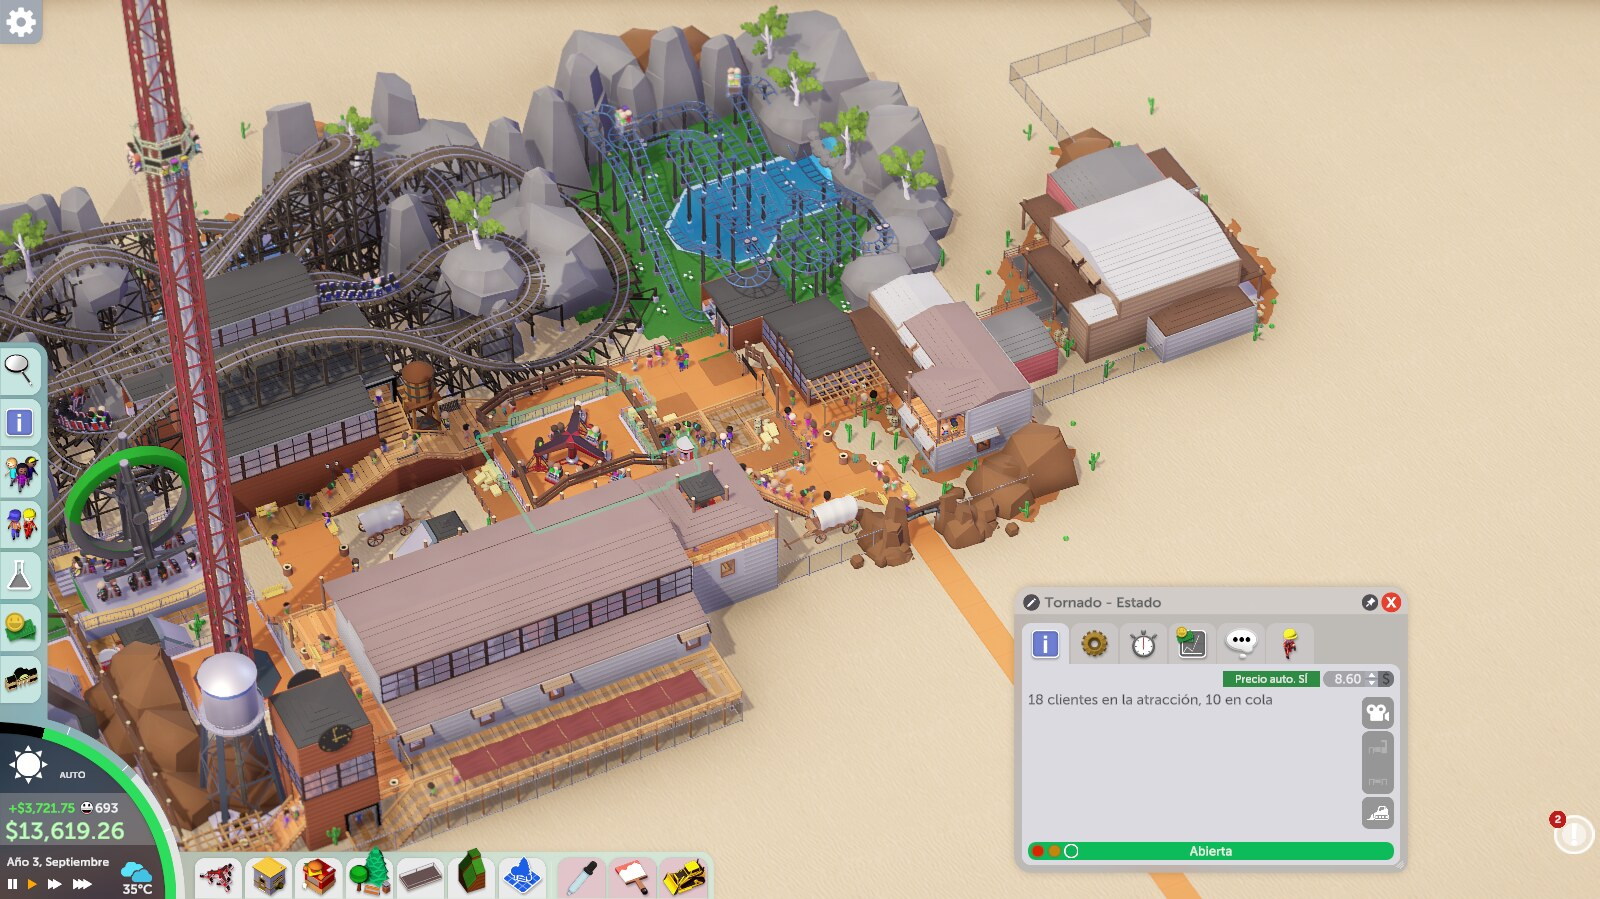
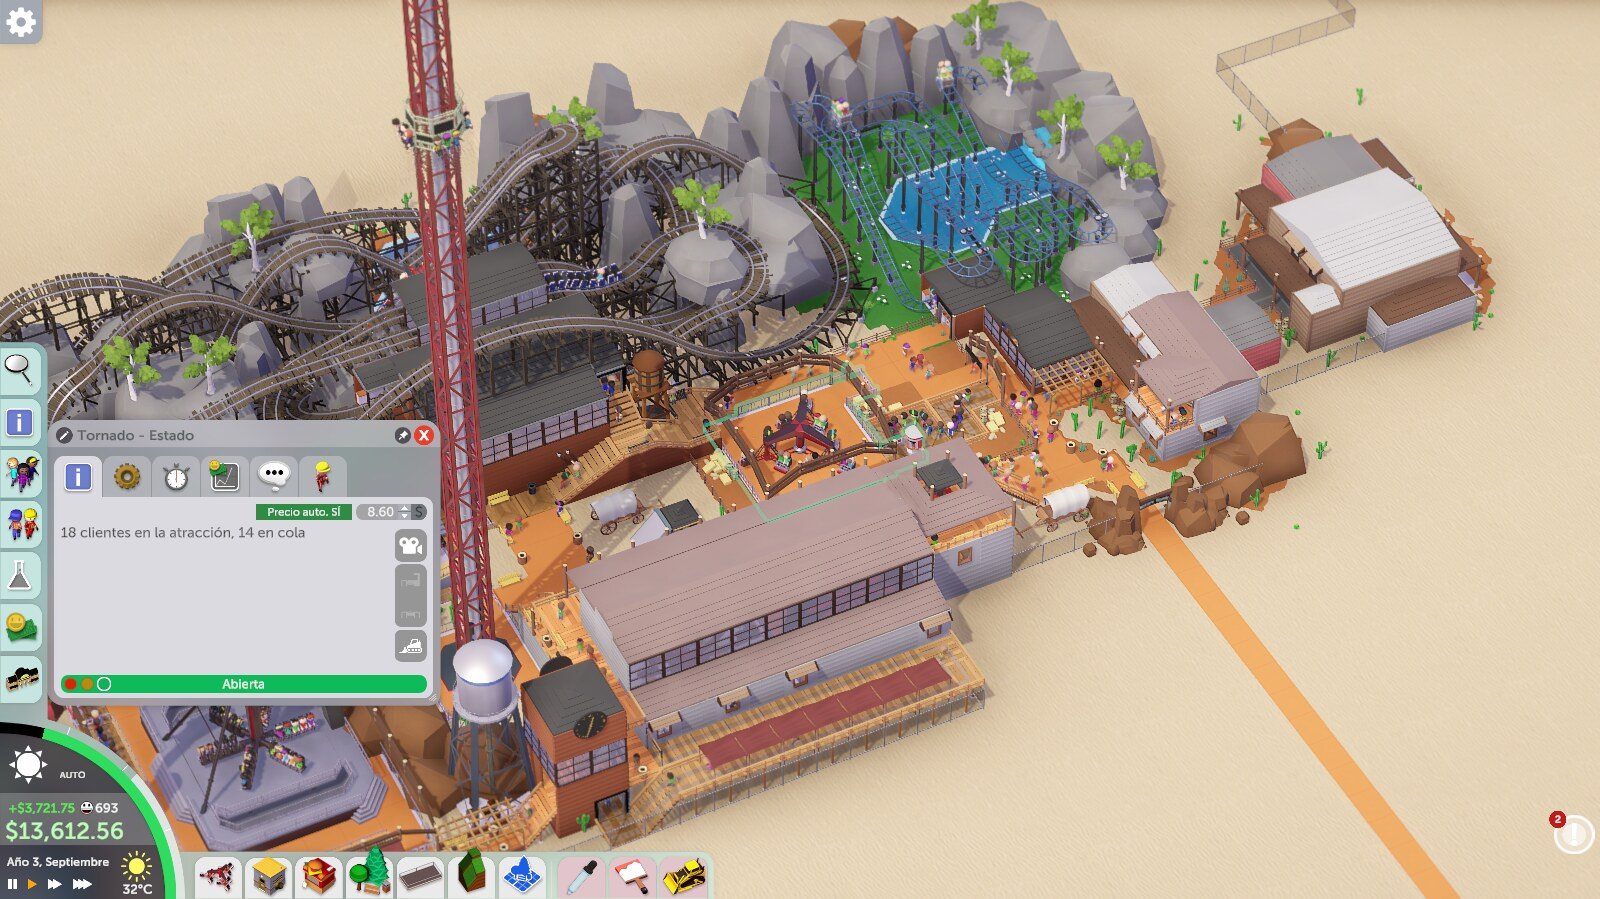
Release 1.2.1: run one copy when installed twice, refresh screenshots
- Only one copy of the mod acts when it is installed both from the
  Workshop and in the Mods folder.
- Test mode can open a specific shop and pans the camera to it.
- New in-game screenshots, including a drinks shop with automatic pricing.

diff --git a/Prueba.cs b/Prueba.cs
@@ -20,6 +20,7 @@ namespace AutoPrecios
 		public static bool soloInforme;
 		// ventanas=1: abre la ventana de una atracción y de una tienda para hacer capturas.
 		private bool abrirVentanas;
+		private string tiendaBuscada;
 
 		private string partida;
 		private float velocidad = 3f;
@@ -36,6 +37,11 @@ namespace AutoPrecios
 			catch (System.Exception e) { Debug.LogWarning("[AutoPrecios] Cannot create data directory: " + e.Message); carpeta = null; }
 			string archivo = System.IO.Path.Combine(carpetaMod ?? "", "prueba.txt");
 			if (string.IsNullOrEmpty(carpetaMod) || !File.Exists(archivo))
+			{
+				return;
+			}
+			// Con dos copias del mod instaladas, solo una abre la partida.
+			if (activa || GameObject.Find("AutoPrecios.Prueba") != null)
 			{
 				return;
 			}
@@ -60,6 +66,10 @@ namespace AutoPrecios
 				if (clave == "partida")
 				{
 					partida = valor;
+				}
+				else if (clave == "tienda")
+				{
+					tiendaBuscada = valor;
 				}
 				else if (clave == "ventanas")
 				{
@@ -91,6 +101,7 @@ namespace AutoPrecios
 			{
 				if (a != null && a.onOpenInfoWindow())
 				{
+					enfocar(a.transform.position);
 					break;
 				}
 			}
@@ -101,8 +112,9 @@ namespace AutoPrecios
 			cerrarVentanas();
 			foreach (Shop s in park.getShops())
 			{
-				if (s is ProductShop && ((ProductShop)s).selectedProducts.Length > 0 && s.onOpenInfoWindow())
+				if (s is ProductShop && ((ProductShop)s).selectedProducts.Length > 0 && esTiendaBuscada(s) && s.onOpenInfoWindow())
 				{
+					enfocar(s.transform.position);
 					break;
 				}
 			}
@@ -167,6 +179,37 @@ namespace AutoPrecios
 				}
 			}
 			return sb.Append(']').ToString();
+		}
+
+		// tienda=<texto>: abrir la tienda cuyo nombre o algún producto contiene ese texto.
+		private bool esTiendaBuscada(Shop s)
+		{
+			if (string.IsNullOrEmpty(tiendaBuscada))
+			{
+				return true;
+			}
+			string buscado = tiendaBuscada.ToLowerInvariant();
+			if (s.getCustomizedName().ToLowerInvariant().Contains(buscado))
+			{
+				return true;
+			}
+			foreach (Product p in ((ProductShop)s).selectedProducts)
+			{
+				if (p != null && p.getReferenceName().ToLowerInvariant().Contains(buscado))
+				{
+					return true;
+				}
+			}
+			return false;
+		}
+
+		// Mueve la cámara hacia el objeto para que la captura muestre el parque.
+		private static void enfocar(Vector3 posicion)
+		{
+			if (GameController.Instance != null && GameController.Instance.cameraController != null)
+			{
+				GameController.Instance.cameraController.panTo(posicion);
+			}
 		}
 
 		private static void capturar(int n)

diff --git a/AutoPrecios.cs b/AutoPrecios.cs
@@ -12,6 +12,8 @@ namespace AutoPrecios
 	// Punto de entrada del mod: Parkitect crea esta clase al cargar la DLL.
 	public class AutoPreciosMod : AbstractMod, IModSettings
 	{
+		private const string NOMBRE_HOST = "AutoPrecios";
+
 		private GameObject host;
 
 		public AutoPreciosMod()
@@ -25,14 +27,20 @@ namespace AutoPrecios
 		public override string getDescription() =>
 			Texto.Elegir("Automatically adjusts ride and shop prices based on guest valuations.", "Ajusta automáticamente los precios de atracciones y tiendas según la valoración de los visitantes.");
 
-		public override string getVersionNumber() => "1.2.0";
+		public override string getVersionNumber() => "1.2.1";
 
 		public override string getIdentifier() => "wezzz.autoprecios";
 
 		public override void onEnabled()
 		{
+			// El mod puede estar instalado dos veces (Workshop y carpeta Mods): solo actúa una copia.
+			if (GameObject.Find(NOMBRE_HOST) != null)
+			{
+				Debug.Log("[AutoPrecios] Another copy of the mod is already active; this one stays idle.");
+				return;
+			}
 			Ajustes.cargar();
-			host = new GameObject("AutoPrecios");
+			host = new GameObject(NOMBRE_HOST);
 			Object.DontDestroyOnLoad(host);
 			host.AddComponent<Ajustador>();
 			host.AddComponent<Interfaz>();

diff --git a/README.md b/README.md
@@ -34,6 +34,10 @@ The green switch enables automatic pricing on a ride:
 
 ![Ride window with automatic pricing enabled](assets/screenshots/ride.jpg)
 
+Shop products get the same switch; drinks and food are priced automatically too:
+
+![Drink shop with automatic pricing enabled](assets/screenshots/shop-auto.jpg)
+
 The grey switch leaves the selected shop product under manual control:
 
 ![Shop product with automatic pricing disabled](assets/screenshots/shop-manual.jpg)

diff --git a/README.es.md b/README.es.md
@@ -28,6 +28,8 @@ Pulsa **Precio auto. SÍ** junto al precio de una atracción o producto para fij
 
 ![Atracción con precio automático activado](assets/screenshots/ride-es.jpg)
 
+![Tienda de bebidas con precio automático activado](assets/screenshots/shop-auto-es.jpg)
+
 ![Producto con precio automático desactivado](assets/screenshots/shop-manual-es.jpg)
 
 Las capturas son del juego; la portada fue creada con IA.
